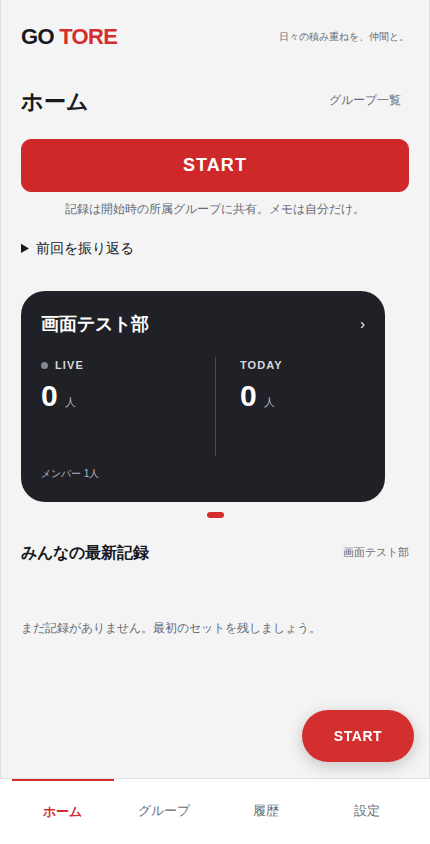
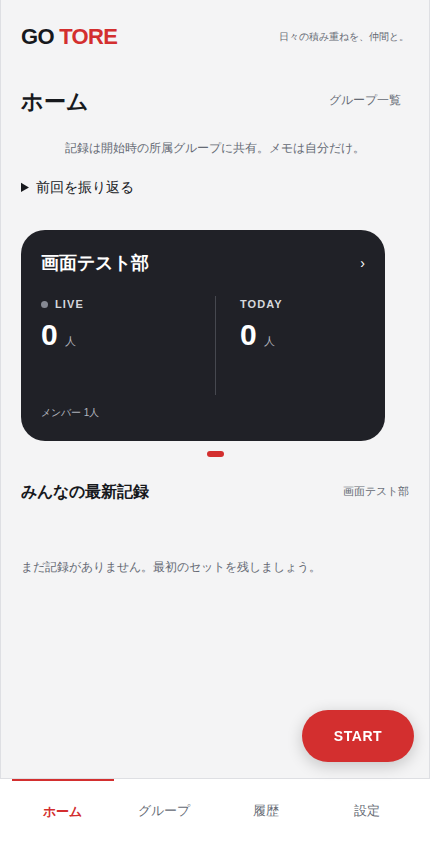
fix: ホーム上部の重複STARTを削除する

diff --git a/frontend/src/features/v2/workspace.tsx b/frontend/src/features/v2/workspace.tsx
@@ -186,16 +186,7 @@ function WorkspaceContent({ session }: { session: Session }) {
             refreshKey={refreshKey}
             active={view === "home"}
             trainingAction={
-              <section className="home-training" aria-label="トレーニング開始">
-                <button
-                  className="primary full"
-                  type="button"
-                  disabled={!canStart}
-                  aria-label={resumable ? "トレーニングを再開" : "トレーニングを開始"}
-                  onClick={startOrResume}
-                >
-                  {resumable ? "RESUME" : "START"}
-                </button>
+              <section className="home-training" aria-label="トレーニングの状況">
                 <p className="muted">
                   {training.session
                     ? `進行中 · ${training.session.exercises.reduce((count, exercise) => count + exercise.sets.length, 0)}セット${training.pending ? " · 同期中" : ""}`
@@ -351,7 +342,7 @@ function WorkspaceContent({ session }: { session: Session }) {
           type="button"
           className="floating-training"
           data-testid="floating-training"
-          aria-label={resumable ? "記録入力を再開" : "今すぐ記録を開始"}
+          aria-label={resumable ? "トレーニングを再開" : "トレーニングを開始"}
           disabled={!canStart}
           onClick={startOrResume}
         >

diff --git a/frontend/tests/e2e/start-navigation.spec.ts b/frontend/tests/e2e/start-navigation.spec.ts
@@ -9,6 +9,7 @@ for (const width of [320, 390, 430]) {
     await expect(nav.getByRole("button")).toHaveText(["ホーム", "グループ", "履歴", "設定"]);
     const floating = page.getByTestId("floating-training");
     await expect(floating).toHaveText("START");
+    await expect(page.locator(".home-training > button")).toHaveCount(0);
     const actionBox = await floating.boundingBox();
     const navBox = await nav.boundingBox();
     expect((actionBox?.y ?? 0) + (actionBox?.height ?? 0)).toBeLessThan(navBox?.y ?? 0);
@@ -60,6 +61,8 @@ for (const width of [320, 390, 430]) {
     expect(state.session?.id).toBe(sessionId);
     expect(starts).toBe(1);
     await navigate(page, "ホーム");
+    await expect(page.locator(".home-training > button")).toHaveCount(0);
+    await expect(floating).toHaveText("RESUME");
     await page.getByRole("button", { name: "トレーニングを再開", exact: true }).click();
     expect(starts).toBe(1);
   });

diff --git a/progress.md b/progress.md
@@ -1484,3 +1484,17 @@
 - 変更内容: PR #123へmainの差分保存 #127を取り込み、双方の進捗を保持。追加された復元テストの旧記録タブをホーム再開へ合わせた。
 - 目的: ホームの重複START修正を、最新の保存処理と一緒にレビューできるようにする。
 - 検証・次のアクション: 競合は進捗の独立追記のみ。ホーム表示の修正後に標準チェックと開始/保存復元の検証を実行する。
+
+
+## 2026-09-13 09:40
+- 変更内容: ユーザー訂正に従い、ホーム上部のSTART/RESUMEを削除して右下へ集約。振り返り・進行状況は維持し、開始/再開の読み上げ名を残るボタンへ引き継いだ。
+- 目的: ホームで開始操作を重複させない。
+- 影響範囲: Workspaceのボタン表示と対応仕様・既存開始導線テスト。新しいテストは増やさず、3幅の開始/再開テストで重複がないことを確認する小さな表示修正とした。
+- 次のアクション: 標準チェックと既存E2E、画像更新後にPR #123へpushする。
+
+
+## 2026-09-13 09:44
+- 変更内容: ホーム上部のSTART/RESUMEを削除し、右下へ集約した画面画像を更新。mainの差分保存と新ナビの復元操作も両立した。
+- 検証: make check成功（backend205件・frontend51件・lint/型検査/build）。3幅の開始/再開・入力/Sheet・未所属・旧キュー復元のE2E6件成功。390px画像を目視し、各幅の位置も既存E2Eで確認。git diff --check成功。全体E2Eは実行中。
+- 目的・影響範囲: ホームの重複ボタン削除、対応仕様・既存テスト・PR画像。開始/保存の業務処理は変更しない。
+- 次のアクション: PR #123へpushし、全体E2EとCIの結果をPRに記録する。

diff --git a/task.md b/task.md
@@ -267,7 +267,7 @@
 
 ### タスク名: ホーム開始とグループ中心のナビゲーション
 - 目的: 主要画面からすぐ記録を始め、下部ナビからグループへ直接アクセスできるようにする。
-- 主な実装内容: #107のホームSTART・主要画面のフローティングSTART/RESUME、記録タブからグループタブへの変更、開始前の振り返りのホームへの移設。
+- 主な実装内容: #107の主要画面のフローティングSTART/RESUME（ホーム上部の重複ボタンは削除）、記録タブからグループタブへの変更、開始前の振り返りのホームへの移設。
 - 完了条件: 既存セッション再開・開始待ち・種目選択・保存/終了・ブラウザ履歴・グループ選択、Sheet/キーボードと幅別表示を検証し画像付きPRにする。
 - 備考: #102の開始前振り返りを維持する。実機PWAの確認は#23と区別し、API/DB変更はしない。assigneeに関係なく進める追加承認済み。
 
